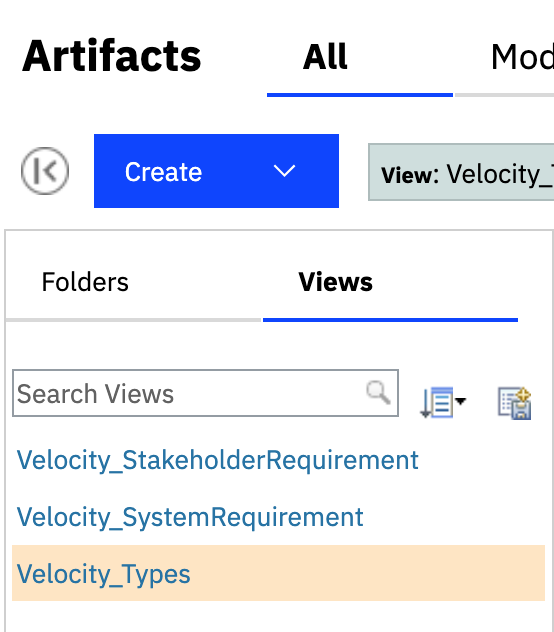
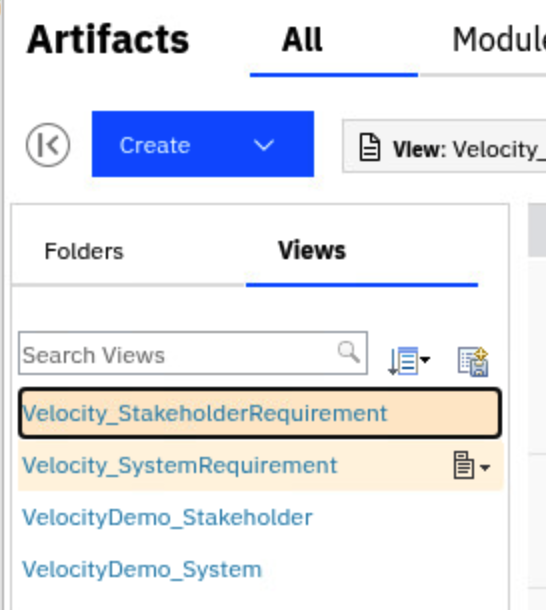
Update enablement

diff --git a/docs/enablement/index.md b/docs/enablement/index.md
@@ -174,6 +174,7 @@ However, even though much of the value stream architecture work has already been
 | **NOTE:** | DevOps Velocity offers version control (out of the box) to help in managing value stream map changes. With the recent change, note the addition of a new version. | <img src="media/e27.png" alt="e27" style="width:50%; height:auto;"> |
 | 9 | Click the "Back" button to return to the value stream view. | <img src="media/e28.png" alt="e28" style="width:50%; height:auto;"> |
 | 10 | You should now see a re-configured value stream architecture with "DOTS" aligned to the phases and stages defined in the EWM workflow. | <img src="media/e29.png" alt="e29" style="width:100%; height:auto;"> |
+| **NOTE:** | Retrieving the "Dots" may take a couple of seconds. Refresh the browser page. | |
 | 11 | To arrange the Stages and location of Stages on the value stream view, enable the drag feature by clicking on the "pencil" icon located on the mini toolbar (LHS of value stream view). | <img src="media/e30.png" alt="e30" style="width:20%; height:auto;"> |
 | 12 | Hover the mouse cursor over one of the stages. Click and hold the mouse button while moving the stage into the desired position. Release the mouse button when the stages is positioned as desired. **NOTE:** The image to the right shows an orientation where lines are not bisecting stages and provides an easy to read layout. | <img src="media/e31.png" alt="e31" style="width:100%; height:auto;"> |
 | 13 | Disable the drag feature when done by clicking on the "pencil" icon. |  |
@@ -221,9 +222,9 @@ To complete the following exercise, ERM has been setup with two requirements pro
 | 12 | Click the "Save as new view" icon. | <img src="media/e41.png" alt="e41" style="width:100%; height:auto;"> |
 | 13 | Enter a meaningful name (e.g. Velocity_Types), select "Shared", and click "OK". | <img src="media/e42.png" alt="e42" style="width:100%; height:auto;"> |
 | **NOTE:** | If the userid/password combination used to configure the Velocity plugin is not an "ELM Administrator". The userid must have access to the DOORs NG project and must be able to execute views. |  |
-| 14 | The same process described above is used to prepare a Global Configuration project for integration with DevOps Velocity with the following differences:<br/>1. The project selected will be different (step 2). For this enablement exercise, select Meter Reader GC.<br/>2. When you click on the gear icon (step 3), select "Manage Components and Configurations".<br/>3. Select "Stakeholder Requirements" and "System Requirements" when setting the workflow and creating the views. | <img src="media/e44.png" alt="e44" style="width:60%; height:auto;"> |
+| 14 | The same process described above is used to prepare a Global Configuration project for integration with DevOps Velocity with the following differences:<br/>1. The project selected will be different (step 2). For this enablement exercise, select Meter Reader GC.<br/>2. When you click on the gear icon (step 3), select "Manage Component Properties ".<br/>3. Select "Stakeholder Requirements" and "System Requirements" artifact types when setting the workflow and creating the views. | <img src="media/e44.png" alt="e44" style="width:60%; height:auto;"> |
 | **HINT:** | Creating an individual view for each of the Artifact types provides more flexibility in selecting which Artifact types you want to sync with DevOps Velocity. |  |
-| 15 | For the Meter Reader GC project, in addition to creating a Velocity_Types view also create a view named Velocity_SystemRequirements for the System Requirement Artifact type and a view called Velocity_StakeholderRequirements for the Stakeholder Requirement Artifact type. | <img src="media/e55.png" alt="e55" style="width:50%; height:auto;"> |
+| 15 | For the Meter Reader GC project, create a view named Velocity_SystemRequirement for the System Requirement Artifact type and a view called Velocity_StakeholderRequirement for the Stakeholder Requirement Artifact type. | <img src="media/e55.png" alt="e55" style="width:50%; height:auto;"> |
 | **HINT:** | It is recommended to prefix the View name with Velocity so that the view is not accidently deleted or modified. |   |
 
 Congratulations on successfully preparing the RM projects and Artifact types for visualization in DevOps Velocity.
